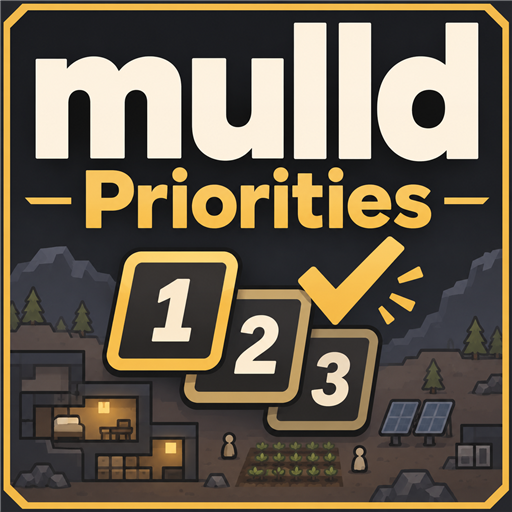
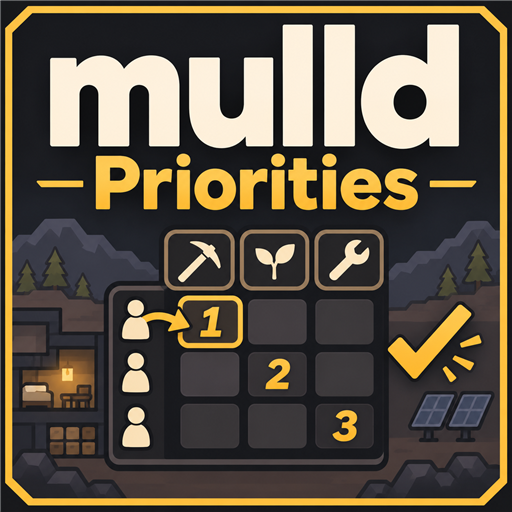
Select work-grid Workshop thumbnail

diff --git a/docs/workshop/THUMBNAIL.md b/docs/workshop/THUMBNAIL.md
@@ -1,5 +1,7 @@
-# Thumbnail source
+# Workshop thumbnail
 
-Generated with the built-in imagegen tool; resized to 512 × 512 for `About/Preview.png` (under 1 MB).
+Selected concept: **3 — Work grid**.
 
-Prompt: Square Steam Workshop thumbnail for a RimWorld colony work-priority mod. Exact text: lowercase “mulld”, followed by “Priorities” with capital P. Dark charcoal and muted gold, three staggered priority tiles numbered 1, 2, 3, a gold checkmark and subtle illustrated colony backdrop. Bold readable type, ample margins, no other text, official logo or watermark.
+Built-in imagegen output, resized to 512 × 512 for `About/Preview.png`; under 1 MB.
+
+Prompt: Square Steam Workshop thumbnail matching the original dark charcoal, warm cream and gold brand, with a chamfered gold border. Exact text: lowercase “mulld”, followed by “Priorities” with capital P. Dominant typography above a stylized compact work-priority matrix, gold numbers 1, 2, 3, abstract pawn silhouettes and a checkmark. Subtle colony backdrop, readable at 200px; no extra words, official logo or watermark.
